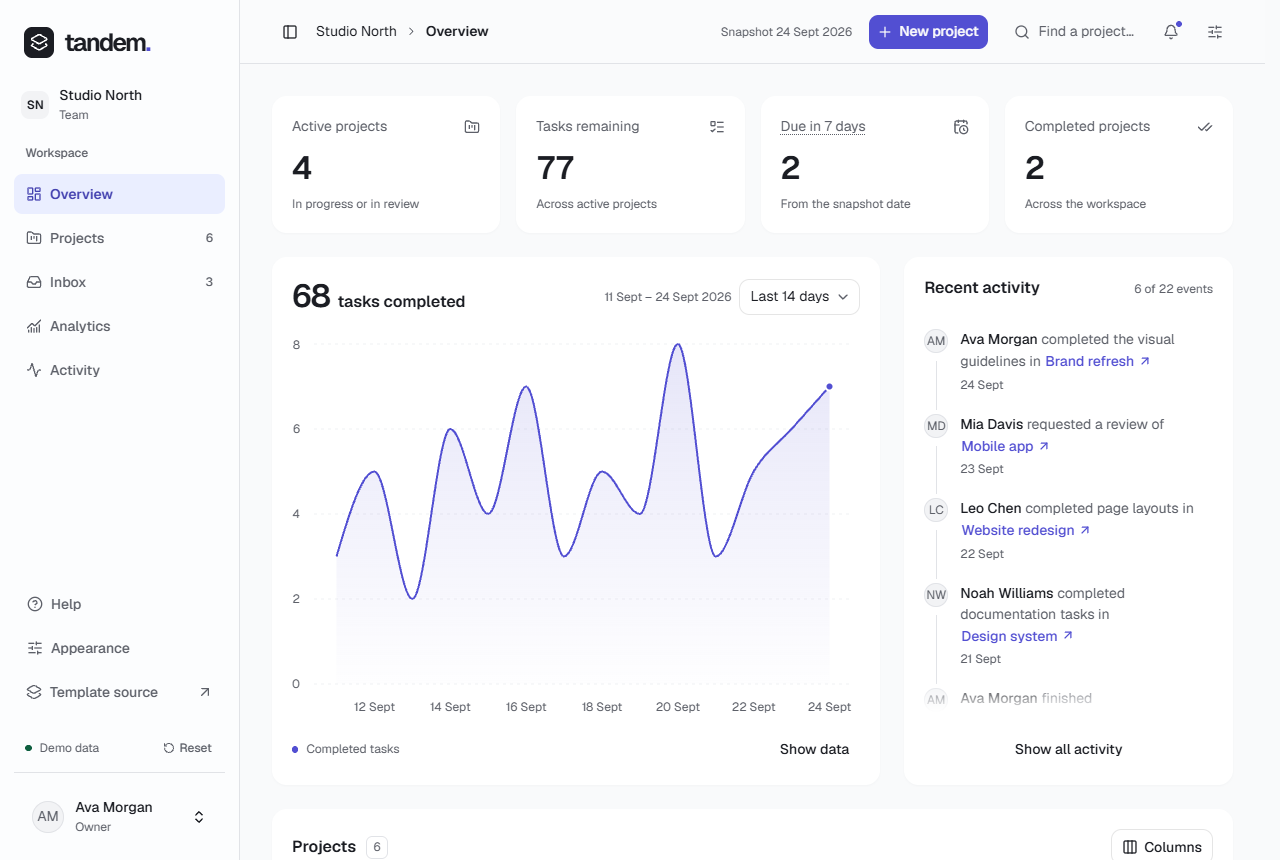
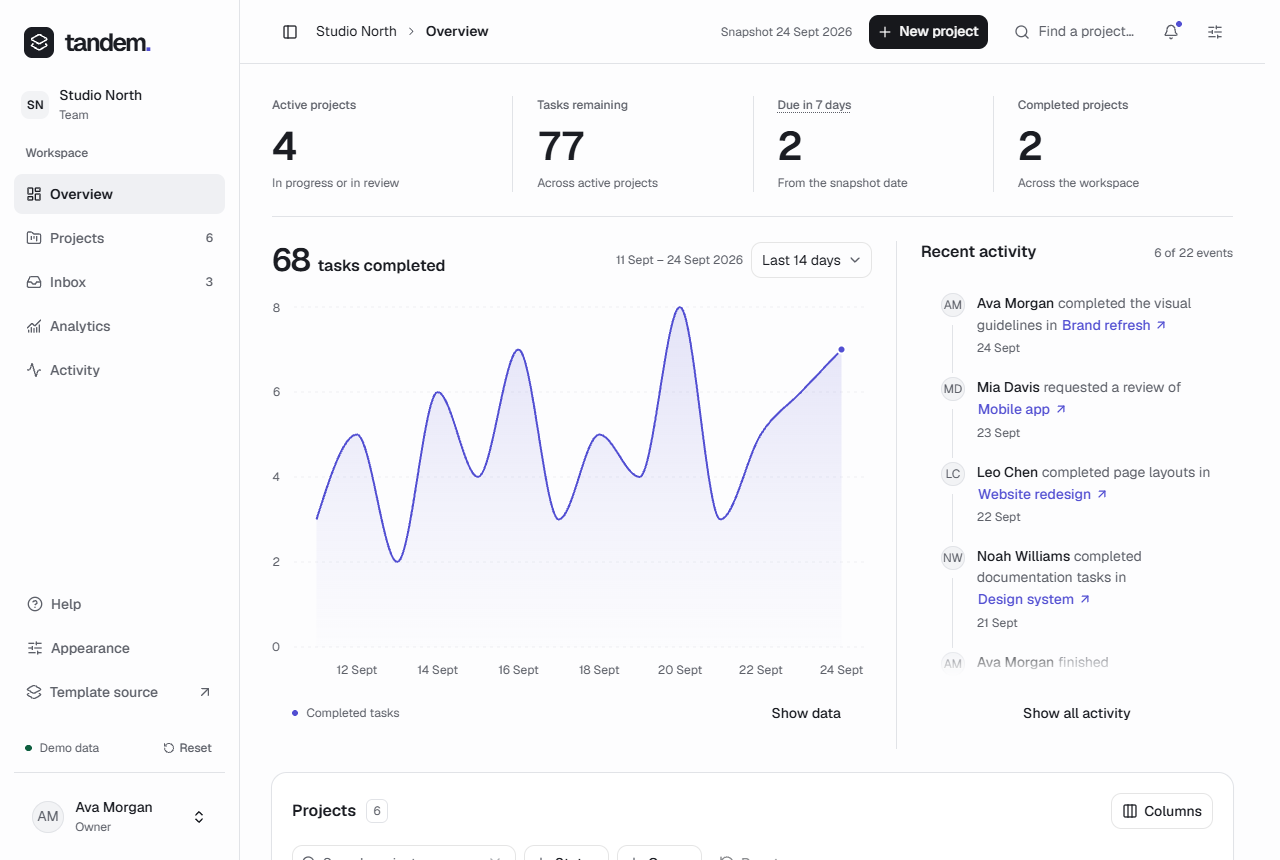
Prototype direction A layouts and the Tandem brand hero
Overview puts the snapshot in one strip on the canvas and opens the chart
and activity sections, leaving Projects as the page's single framed
surface; the kit Card gains a hairline edge for the white canvas. The
public home hero sets Tandem's display face (Bricolage Grotesque) over a
colour stage holding a refreshed product screenshot.

diff --git a/src/styles/public-brand.css b/src/styles/public-brand.css
@@ -1,0 +1,154 @@
+/* Tandem's brand layer for the public site: a display face and one colour
+   field behind the product. The workspace keeps the kit's quieter voice. */
+@import "@fontsource-variable/bricolage-grotesque/wght.css";
+
+.public-hero,
+.public-section-heading {
+  --tandem-display: "Bricolage Grotesque Variable", var(--font-sans);
+  --tandem-field: oklch(0.5 0.24 264);
+  --tandem-field-deep: oklch(0.34 0.2 268);
+  --tandem-lime: oklch(0.92 0.2 125);
+  --tandem-lime-foreground: oklch(0.25 0.06 130);
+}
+.dark :is(.public-hero, .public-section-heading) {
+  --tandem-field: oklch(0.42 0.21 264);
+  --tandem-field-deep: oklch(0.24 0.14 268);
+}
+
+.public-hero h1,
+.public-section-heading h2 {
+  font-family: var(--tandem-display);
+  font-weight: 700;
+  letter-spacing: -0.035em;
+}
+
+/* A two-line headline above copy and actions, then a full-width stage. */
+.public-hero {
+  grid-template-columns: minmax(0, 1fr);
+  gap: clamp(2.5rem, 5vw, 4rem);
+}
+.public-hero-copy {
+  display: grid;
+  grid-template-columns: minmax(0, 1fr) auto;
+  column-gap: clamp(2rem, 5vw, 5rem);
+  align-items: end;
+}
+.public-hero-copy > h1 {
+  grid-column: 1 / -1;
+  max-width: none;
+  margin-bottom: clamp(1.5rem, 3vw, 2.5rem);
+  font-size: clamp(2.75rem, 7.4vw, 6.75rem);
+  line-height: 0.95;
+}
+.public-hero-copy > h1 > span {
+  display: block;
+}
+.public-hero-copy > p:not(.public-note) {
+  grid-row: 2 / span 2;
+  margin-top: 0;
+}
+.public-hero-copy > .public-hero-actions {
+  grid-column: 2;
+  justify-content: end;
+  margin-top: 0;
+}
+.public-hero-copy > .public-note {
+  grid-column: 2;
+  text-align: right;
+}
+.public-product-preview {
+  position: relative;
+  isolation: isolate;
+  overflow: hidden;
+  padding: clamp(3.25rem, 6vw, 5.5rem) clamp(1.25rem, 7vw, 7rem) 0;
+  border-radius: calc(var(--radius-xl) * 2);
+  background:
+    radial-gradient(
+      120% 90% at 50% 110%,
+      var(--tandem-field-deep),
+      transparent 70%
+    ),
+    var(--tandem-field);
+}
+/* The colour sculpture: two soft conic forms behind the screenshot. */
+.public-product-preview::before,
+.public-product-preview::after {
+  content: "";
+  position: absolute;
+  z-index: -1;
+  aspect-ratio: 1;
+  border-radius: 50%;
+  filter: blur(48px);
+}
+.public-product-preview::before {
+  top: -30%;
+  right: -8%;
+  width: 46%;
+  background: conic-gradient(
+    from 210deg,
+    var(--tandem-lime),
+    oklch(0.8 0.15 195),
+    oklch(0.62 0.24 300),
+    var(--tandem-lime)
+  );
+  opacity: 0.75;
+}
+.public-product-preview::after {
+  bottom: -40%;
+  left: -12%;
+  width: 40%;
+  background: conic-gradient(
+    from 30deg,
+    oklch(0.7 0.2 320),
+    var(--tandem-field),
+    oklch(0.78 0.16 200),
+    oklch(0.7 0.2 320)
+  );
+  opacity: 0.6;
+}
+.public-product-preview a {
+  margin-bottom: -9%;
+  border: 0;
+  border-radius: var(--radius-xl) var(--radius-xl) 0 0;
+  box-shadow:
+    0 0 0 1px color-mix(in oklch, white 22%, transparent),
+    0 40px 80px -20px oklch(0.15 0.1 268 / 55%);
+  transition: transform var(--motion-fast) var(--ease-standard);
+}
+.public-product-preview a:hover {
+  transform: translateY(-4px);
+}
+.public-product-preview figcaption {
+  position: absolute;
+  top: clamp(0.875rem, 2vw, 1.5rem);
+  left: clamp(0.875rem, 2vw, 1.5rem);
+  margin: 0;
+  padding: 0.25rem 0.625rem;
+  border-radius: 999px;
+  background: var(--tandem-lime);
+  color: var(--tandem-lime-foreground);
+  font-weight: 600;
+}
+
+@media (width < 48rem) {
+  .public-hero-copy {
+    grid-template-columns: minmax(0, 1fr);
+  }
+  .public-hero-copy > p:not(.public-note) {
+    grid-row: auto;
+  }
+  .public-hero-copy > .public-hero-actions {
+    grid-column: 1;
+    justify-content: start;
+    margin-top: 1.5rem;
+  }
+  .public-hero-copy > .public-note {
+    grid-column: 1;
+    text-align: left;
+  }
+}
+@media (prefers-reduced-motion: reduce) {
+  .public-product-preview a {
+    transition: none;
+  }
+}

diff --git a/src/features/overview/metrics.tsx b/src/features/overview/metrics.tsx
@@ -1,4 +1,3 @@
-import { CalendarClock, CheckCheck, FolderKanban, ListTodo } from "lucide-react"
 import { Card, CardContent } from "@/kit/ui/card"
 import { projectSummary } from "@/demo/selectors"
 import type { Project } from "@/demo/model"
@@ -18,48 +17,38 @@ export function Metrics({
       label: "Active projects",
       value: summary.active,
       detail: "In progress or in review",
-      icon: FolderKanban,
     },
     {
       label: "Tasks remaining",
       value: summary.remaining,
       detail: "Across active projects",
-      icon: ListTodo,
     },
     {
       label: "Due in 7 days",
       value: summary.due,
       detail: "From the snapshot date",
-      icon: CalendarClock,
     },
     {
       label: "Completed projects",
       value: summary.completed,
       detail: "Across the workspace",
-      icon: CheckCheck,
     },
   ]
 
   return (
     <section className="metrics-grid" aria-label="Workspace snapshot">
-      {metrics.map(({ label, value, detail, icon: Icon }) => (
+      {metrics.map(({ label, value, detail }) => (
         <Card key={label} className="metric-card">
           <CardContent>
-            <div className="flex items-center justify-between gap-2">
-              <h2 className="text-sm text-muted-foreground">
-                {label === "Due in 7 days" ? (
-                  <TextHint description="Active projects due between the snapshot date and seven days after it. Overdue and completed projects are excluded.">
-                    {label}
-                  </TextHint>
-                ) : (
-                  label
-                )}
-              </h2>
-              <Icon
-                className="size-4 text-muted-foreground"
-                aria-hidden="true"
-              />
-            </div>
+            <h2 className="text-xs font-medium text-muted-foreground">
+              {label === "Due in 7 days" ? (
+                <TextHint description="Active projects due between the snapshot date and seven days after it. Overdue and completed projects are excluded.">
+                  {label}
+                </TextHint>
+              ) : (
+                label
+              )}
+            </h2>
             <p className="metric-value">{value}</p>
             <p className="text-xs text-muted-foreground">{detail}</p>
           </CardContent>

diff --git a/src/styles/overview.css b/src/styles/overview.css
@@ -11,14 +11,28 @@
   display: grid;
   gap: var(--section-gap);
 }
+/* Direction A: the snapshot is one strip on the canvas, not four tiles. */
 .metrics-grid {
   display: grid;
   grid-template-columns: repeat(4, minmax(0, 1fr));
-  gap: var(--content-gap);
+  border-bottom: 1px solid var(--border);
+  padding-bottom: var(--section-gap);
+}
+.metric-card {
+  --card-spacing: 0px;
+  background: transparent;
+  box-shadow: none;
+  border-radius: 0;
+  padding-inline: var(--section-gap);
+  border-inline-start: 1px solid var(--border);
+}
+.metric-card:first-child {
+  padding-inline-start: 0;
+  border-inline-start: 0;
 }
 .metric-value {
-  margin: var(--item-padding) 0 0.5rem;
-  font-size: var(--text-metric);
+  margin: var(--control-gap) 0 0.25rem;
+  font-size: calc(var(--text-metric) * 1.25);
   font-weight: 600;
   letter-spacing: -0.04em;
   line-height: var(--leading-metric);
@@ -27,8 +41,23 @@
 .overview-middle {
   display: grid;
   grid-template-columns: minmax(0, 1.85fr) minmax(17rem, 1fr);
-  gap: var(--section-gap);
   align-items: stretch;
+}
+/* Chart and activity are open sections divided by one hairline. */
+.overview-middle > .completion-card,
+.overview-middle > .activity-card {
+  --card-spacing: 0px;
+  background: transparent;
+  box-shadow: none;
+  border-radius: 0;
+  overflow: visible;
+}
+.overview-middle > .completion-card {
+  padding-inline-end: var(--section-gap);
+}
+.overview-middle > .activity-card {
+  padding-inline-start: var(--section-gap);
+  border-inline-start: 1px solid var(--border);
 }
 .completion-card,
 .activity-card {

diff --git a/src/kit/ui/card.tsx b/src/kit/ui/card.tsx
@@ -11,7 +11,7 @@ function Card({
       data-slot="card"
       data-size={size}
       className={cn(
-        "group/card flex flex-col gap-(--card-spacing) overflow-hidden rounded-xl bg-card py-(--card-spacing) text-sm text-card-foreground [--card-spacing:var(--card-padding)] [box-shadow:0_1px_2px_color-mix(in_oklch,var(--foreground)_3%,transparent)] has-data-[slot=card-footer]:pb-0 has-[>img:first-child]:pt-0 data-[size=sm]:has-data-[slot=card-footer]:pb-0 *:[img:first-child]:rounded-t-xl *:[img:last-child]:rounded-b-xl",
+        "group/card flex flex-col gap-(--card-spacing) overflow-hidden rounded-xl bg-card py-(--card-spacing) text-sm text-card-foreground [--card-spacing:var(--card-padding)] [box-shadow:0_0_0_1px_var(--border),0_1px_2px_color-mix(in_oklch,var(--foreground)_4%,transparent)] has-data-[slot=card-footer]:pb-0 has-[>img:first-child]:pt-0 data-[size=sm]:has-data-[slot=card-footer]:pb-0 *:[img:first-child]:rounded-t-xl *:[img:last-child]:rounded-b-xl",
         className,
       )}
       {...props}

diff --git a/src/styles/page-responsive.css b/src/styles/page-responsive.css
@@ -11,16 +11,25 @@
     flex: 1 1 6rem;
   }
   .metrics-grid {
-    grid-template-columns: repeat(auto-fit, minmax(min(100%, 9rem), 1fr));
-    gap: var(--content-gap);
+    grid-template-columns: repeat(2, minmax(0, 1fr));
+    row-gap: var(--section-gap);
   }
-  .metric-card h2 {
-    font-size: var(--text-body);
+  .metric-card:nth-child(odd) {
+    padding-inline-start: 0;
+    border-inline-start: 0;
   }
   .overview-middle {
     grid-template-columns: minmax(0, 1fr);
+    row-gap: var(--section-gap);
   }
-  .activity-card {
+  .overview-middle > .completion-card {
+    padding-inline-end: 0;
+  }
+  .overview-middle > .activity-card {
     order: 1;
+    padding-inline-start: 0;
+    padding-block-start: var(--section-gap);
+    border-inline-start: 0;
+    border-block-start: 1px solid var(--border);
   }
 }

diff --git a/src/features/public/home-page.tsx b/src/features/public/home-page.tsx
@@ -37,7 +37,11 @@ export function HomePage({
         aria-labelledby="home-title"
       >
         <div className="public-hero-copy">
-          <h1 id="home-title">{content.title}</h1>
+          <h1 id="home-title">
+            {content.title.split(/(?<=\.)\s+/u).map((sentence) => (
+              <span key={sentence}>{sentence}</span>
+            ))}
+          </h1>
           <p>{content.description}</p>
           <div className="public-hero-actions">
             <LinkComponent

diff --git a/src/styles/demo.css b/src/styles/demo.css
@@ -22,6 +22,7 @@
 @import "./team-settings.css";
 @import "./access.css";
 @import "./public.css";
+@import "./public-brand.css";
 @import "./public-pages.css";
 @import "./product-features.css";
 @import "./resources.css";
